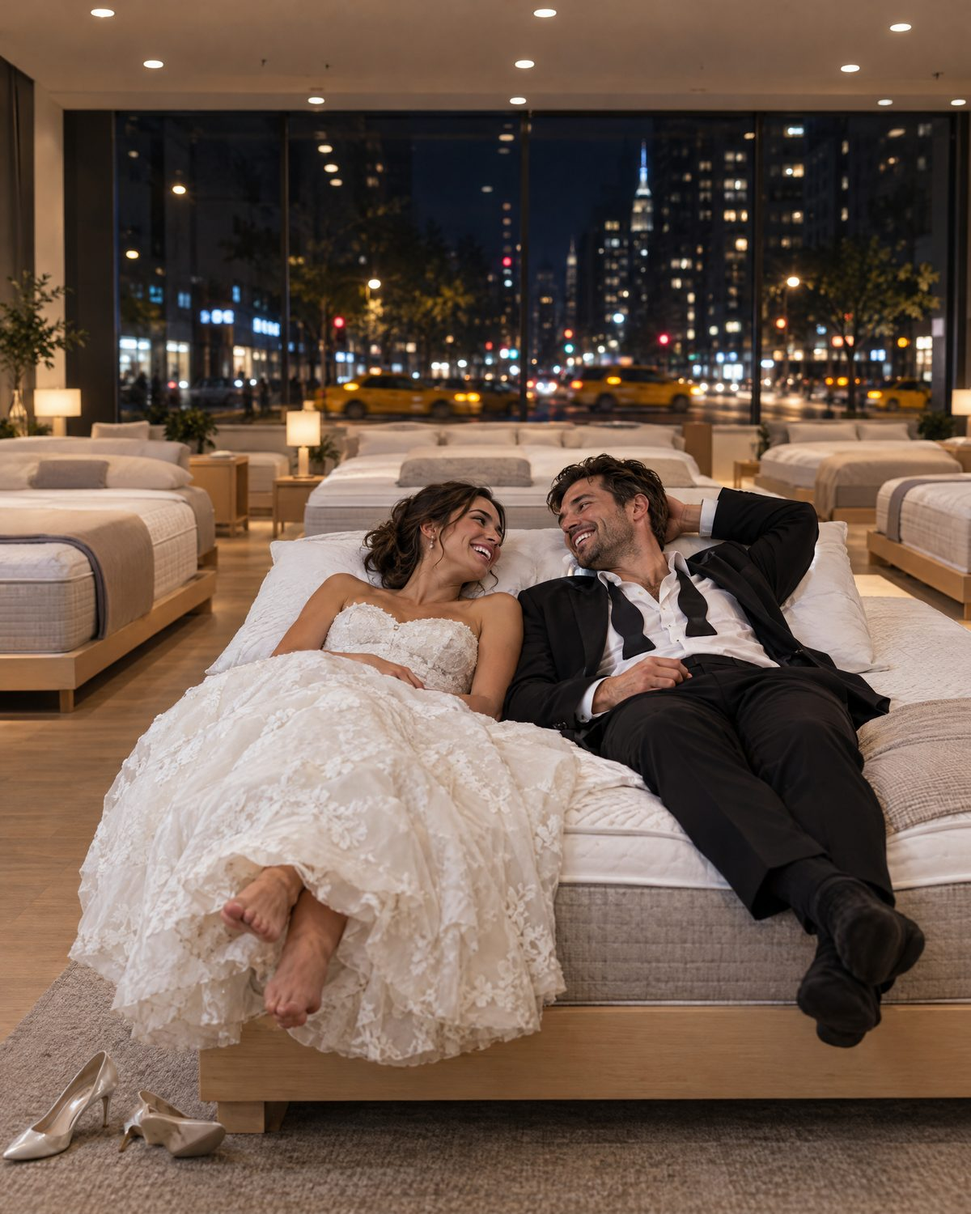
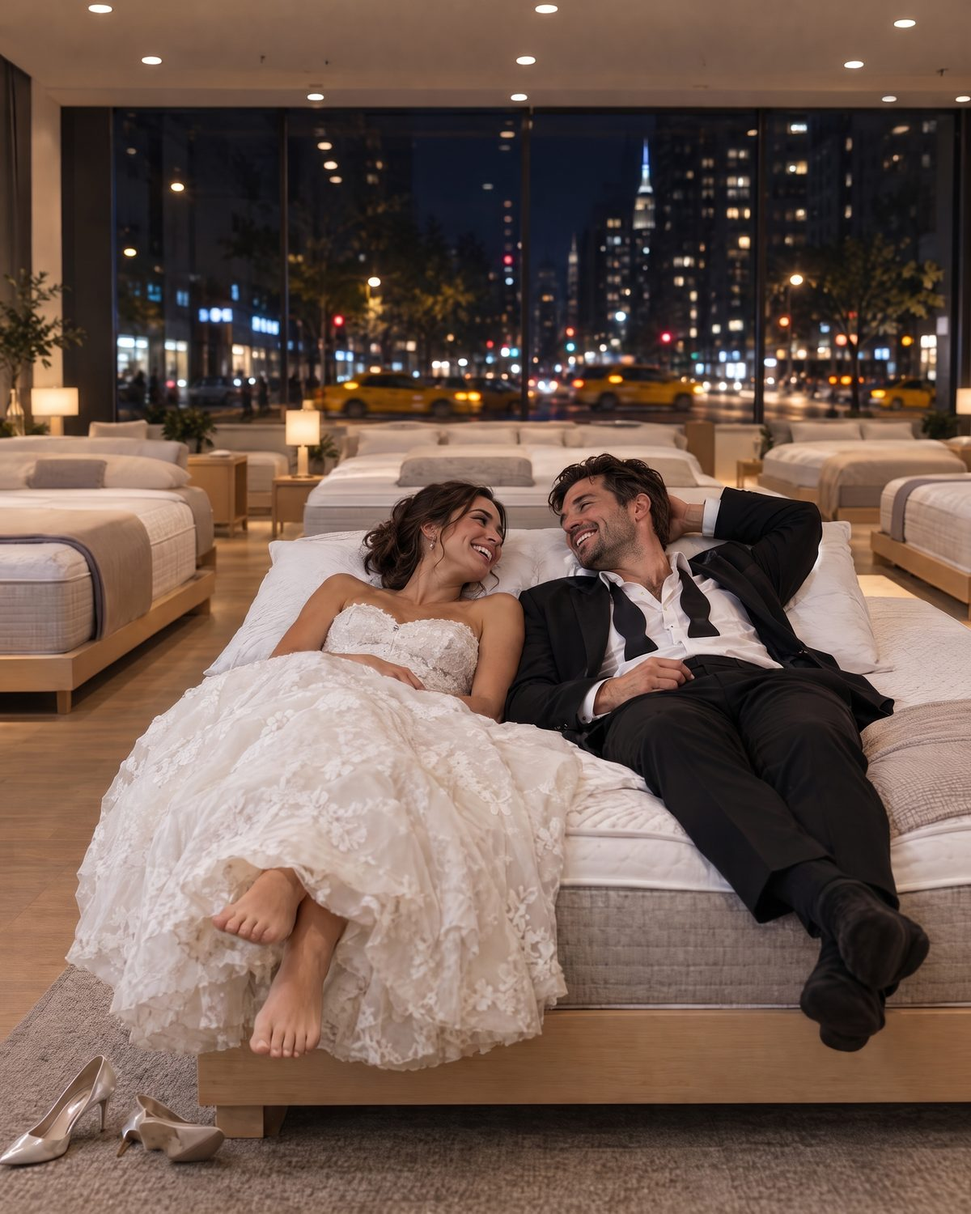
Update: sleepare-review-a-66nk (by equipo via noetic-proposals-mcp)

diff --git a/sleepare-review-a-66nk/index.html b/sleepare-review-a-66nk/index.html
@@ -187,7 +187,7 @@ body{overflow-x:clip}
 </style>
 </head>
 <body>
-<div data-dc-tpl="3" data-theme="editorial-light" style="width: 100%; background: rgb(250, 250, 247); color: rgb(10, 10, 14); font-family: var(--font-editorial-sans); font-size: 17px; line-height: 1.6;"><header data-dc-tpl="4" class="dark" style="position: sticky; top: 0px; z-index: 20; background: rgba(10, 10, 14, 0.82); backdrop-filter: blur(12px); border-bottom: 1px solid rgba(255, 255, 255, 0.12);"><div data-dc-tpl="5" style="max-width: 1240px; margin: 0px auto; padding: 14px 32px; box-sizing: border-box; display: flex; flex-wrap: wrap; align-items: center; justify-content: space-between; gap: 12px 24px;"><div class="sc-host-x" data-dc-tpl="6" style="display: contents;"><span style="display: inline-flex; align-items: center; gap: 14px;"><img src="assets/noetic-lockup-white.svg" alt="Noetic" style="height: 24px; width: 89.0071px; display: block;"><span style="width: 1px; height: 20.64px; background: rgba(255, 255, 255, 0.12);"></span><span style="display: inline-flex; align-items: center; padding: 4px 10px; border-radius: 4px; box-shadow: rgba(255, 255, 255, 0.12) 0px 0px 0px 1px inset; font-family: var(--editorial-font-mono); font-size: 12px; letter-spacing: 0.1em; color: var(--editorial-ink-faint);">SLEEPARE</span></span></div><nav data-dc-tpl="7" aria-label="Routes" style="display: flex; flex-wrap: wrap; gap: 6px 22px; font-family: var(--font-editorial-mono); font-size: 12px; letter-spacing: 0.12em; text-transform: uppercase; color: rgb(168, 168, 181);"><a data-dc-tpl="8" href="#route-01">01 Business hours</a><a data-dc-tpl="9" href="#route-012">01.2 SleePare Time</a><a data-dc-tpl="10" href="#route-02">02 Never sleeps</a><a data-dc-tpl="11" href="#route-03">03 Sleepy Tom</a><a data-dc-tpl="12" href="#route-04">04 3 a.m.</a><a data-dc-tpl="13" href="#compare">At a glance</a></nav></div></header><section data-dc-tpl="14" class="dark" data-theme="editorial-dark" style="position: relative; overflow: hidden; background: rgb(10, 10, 14); color: rgb(250, 250, 247);"><div data-dc-tpl="15" aria-hidden="true" style="position: absolute; width: 620px; height: 620px; left: -180px; bottom: -260px; border-radius: 50%; background: rgb(0, 212, 180); opacity: 0.32; filter: blur(96px);"></div><div data-dc-tpl="16" aria-hidden="true" style="position: absolute; width: 720px; height: 720px; right: -220px; top: -280px; border-radius: 50%; background: rgb(108, 92, 231); opacity: 0.55; filter: blur(96px);"></div><div data-dc-tpl="17" style="position: relative; max-width: 1240px; margin: 0px auto; padding: clamp(80px, 11vw, 150px) 32px clamp(64px, 8vw, 110px); box-sizing: border-box; display: flex; flex-direction: column; gap: 40px;"><div data-dc-tpl="18"><div class="sc-host-x" data-dc-tpl="19" style="display: contents;"><span style="display: inline-flex; align-items: center; border-radius: 999px; box-shadow: rgb(0, 212, 180) 0px 0px 0px 1.5px inset; padding: 10px 22px; font-family: Inter, sans-serif; font-weight: 500; font-size: 12px; letter-spacing: 0.16em; text-transform: uppercase; color: rgb(0, 212, 180); white-space: nowrap;">SleePare 24/7 · Campaign routes</span></div></div><h1 data-dc-tpl="20" style="margin: 0px; max-width: 1080px; font-family: var(--font-editorial-display); font-weight: 400; font-size: clamp(48px, 8.4vw, 124px); line-height: 0.98; letter-spacing: -0.03em; color: rgb(255, 255, 255);">SleePare is now open 24h in NYC.</h1><p data-dc-tpl="21" style="margin: 0px; max-width: 720px; font-size: clamp(19px, 1.9vw, 24px); line-height: 1.5; color: rgb(230, 230, 236);">Five creative routes built on one simple fact: when New York finally gives you your time back, there’s a mattress store that’s still open.</p><div data-dc-tpl="22" style="display: grid; grid-template-columns: repeat(auto-fit, minmax(200px, 1fr)); gap: 24px; padding-top: 32px; border-top: 1px solid rgba(255, 255, 255, 0.12);"><div data-dc-tpl="23" style="display: flex; flex-direction: column; gap: 6px;"><span data-dc-tpl="24" style="font-family: var(--font-editorial-mono); font-size: 11px; letter-spacing: 0.14em; text-transform: uppercase; color: rgb(168, 168, 181);">Client</span><span data-dc-tpl="25" style="font-weight: 600; font-size: 18px;">SleePare</span></div><div data-dc-tpl="26" style="display: flex; flex-direction: column; gap: 6px;"><span data-dc-tpl="27" style="font-family: var(--font-editorial-mono); font-size: 11px; letter-spacing: 0.14em; text-transform: uppercase; color: rgb(168, 168, 181);">Store</span><span data-dc-tpl="28" style="font-weight: 600; font-size: 18px;">218 W 30th St, New York</span></div><div data-dc-tpl="29" style="display: flex; flex-direction: column; gap: 6px;"><span data-dc-tpl="30" style="font-family: var(--font-editorial-mono); font-size: 11px; letter-spacing: 0.14em; text-transform: uppercase; color: rgb(168, 168, 181);">News</span><span data-dc-tpl="31" style="font-weight: 600; font-size: 18px;">Open 24h on weekends</span></div><div data-dc-tpl="32" style="display: flex; flex-direction: column; gap: 6px;"><span data-dc-tpl="33" style="font-family: var(--font-editorial-mono); font-size: 11px; letter-spacing: 0.14em; text-transform: uppercase; color: rgb(168, 168, 181);">Routes</span><span data-dc-tpl="34" style="font-weight: 600; font-size: 18px;">Five creative paths</span></div></div></div></section><section data-dc-tpl="35" style="background: rgb(250, 250, 247);"><div data-dc-tpl="36" style="max-width: 1240px; margin: 0px auto; padding: clamp(64px, 8vw, 110px) 32px; box-sizing: border-box; display: flex; flex-direction: column; gap: 32px;"><div data-dc-tpl="37"><div class="sc-host-x" data-dc-tpl="38" style="display: contents;"><span style="display: inline-flex; align-items: center; border-radius: 999px; box-shadow: inset 0 0 0 1.5px var(--editorial-purple); padding: 10px 22px; font-family: Inter, sans-serif; font-weight: 500; font-size: 12px; letter-spacing: 0.16em; text-transform: uppercase; color: var(--editorial-purple); white-space: nowrap;">The routes</span></div></div><h2 data-dc-tpl="39" style="margin: 0px; max-width: 900px; font-family: var(--font-editorial-display); font-weight: 400; font-size: clamp(32px, 4vw, 52px); line-height: 1.05; letter-spacing: -0.02em;">One store that never closes on weekends. Five ways to make New York care.</h2><div data-dc-tpl="40" style="display: flex; flex-direction: column; border-top: 1px solid rgba(10, 10, 14, 0.16);"><a data-dc-tpl="41" href="#route-01" style="display: grid; grid-template-columns: 90px minmax(0px, 1fr) minmax(0px, 1fr); gap: 8px 24px; align-items: baseline; padding: 24px 0px; border-bottom: 1px solid rgba(10, 10, 14, 0.16);"><span data-dc-tpl="42" style="font-family: var(--font-editorial-mono); font-size: 13px; letter-spacing: 0.1em; color: rgb(108, 92, 231);">01</span><span data-dc-tpl="43" style="font-family: var(--font-editorial-display); font-size: clamp(20px, 2.2vw, 28px); line-height: 1.15; letter-spacing: -0.02em;">Your free time is our business hours.</span><span data-dc-tpl="44" style="color: rgb(107, 107, 123); font-size: 15px;">Normalize absurdly specific mattress-shopping hours.</span></a><a data-dc-tpl="45" href="#route-012" style="display: grid; grid-template-columns: 90px minmax(0px, 1fr) minmax(0px, 1fr); gap: 8px 24px; align-items: baseline; padding: 24px 0px; border-bottom: 1px solid rgba(10, 10, 14, 0.16);"><span data-dc-tpl="46" style="font-family: var(--font-editorial-mono); font-size: 13px; letter-spacing: 0.1em; color: rgb(108, 92, 231);">01.2</span><span data-dc-tpl="47" style="font-family: var(--font-editorial-display); font-size: clamp(20px, 2.2vw, 28px); line-height: 1.15; letter-spacing: -0.02em;">At SleePare, any hour is mattress hour.</span><span data-dc-tpl="48" style="font-size: 15px; color: rgb(107, 107, 123);">Welcome to SleePare Time, where the clock stops deciding.</span></a><a data-dc-tpl="49" href="#route-02" style="display: grid; grid-template-columns: 90px minmax(0px, 1fr) minmax(0px, 1fr); gap: 8px 24px; align-items: baseline; padding: 24px 0px; border-bottom: 1px solid rgba(10, 10, 14, 0.16);"><span data-dc-tpl="50" style="font-family: var(--font-editorial-mono); font-size: 13px; letter-spacing: 0.1em; color: rgb(108, 92, 231);">02</span><span data-dc-tpl="51" style="font-family: var(--font-editorial-display); font-size: clamp(20px, 2.2vw, 28px); line-height: 1.15; letter-spacing: -0.02em;">The city never sleeps. You should.</span><span data-dc-tpl="52" style="font-size: 15px; color: rgb(107, 107, 123);">The one brand telling New Yorkers to stop.</span></a><a data-dc-tpl="53" href="#route-03" style="display: grid; grid-template-columns: 90px minmax(0px, 1fr) minmax(0px, 1fr); gap: 8px 24px; align-items: baseline; padding: 24px 0px; border-bottom: 1px solid rgba(10, 10, 14, 0.16);"><span data-dc-tpl="54" style="font-family: var(--font-editorial-mono); font-size: 13px; letter-spacing: 0.1em; color: rgb(108, 92, 231);">03</span><span data-dc-tpl="55" style="font-family: var(--font-editorial-display); font-size: clamp(20px, 2.2vw, 28px); line-height: 1.15; letter-spacing: -0.02em;">Meet Sleepy Tom. He can sleep anywhere.</span><span data-dc-tpl="56" style="font-size: 15px; color: rgb(107, 107, 123);">A character series about the most exhausted man in NY.</span></a><a data-dc-tpl="57" href="#route-04" style="display: grid; grid-template-columns: 90px minmax(0px, 1fr) minmax(0px, 1fr); gap: 8px 24px; align-items: baseline; padding: 24px 0px; border-bottom: 1px solid rgba(10, 10, 14, 0.16);"><span data-dc-tpl="58" style="font-family: var(--font-editorial-mono); font-size: 13px; letter-spacing: 0.1em; color: rgb(108, 92, 231);">04</span><span data-dc-tpl="59" style="font-family: var(--font-editorial-display); font-size: clamp(20px, 2.2vw, 28px); line-height: 1.15; letter-spacing: -0.02em;">Not every 3 a.m. decision is a bad one.</span><span data-dc-tpl="60" style="font-size: 15px; color: rgb(107, 107, 123);">Flip the reputation of the late-night hour.</span></a></div></div></section><section data-dc-tpl="61" id="route-01" style="background: rgb(242, 240, 234);"><div data-dc-tpl="62" style="max-width: 1240px; margin: 0px auto; padding: clamp(80px, 10vw, 140px) 32px; box-sizing: border-box; display: flex; flex-direction: column; gap: 56px;"><div data-dc-tpl="63" style="display: flex; flex-direction: column; gap: 28px;"><div data-dc-tpl="64"><div class="sc-host-x" data-dc-tpl="65" style="display: contents;"><span style="display: inline-flex; align-items: center; border-radius: 999px; box-shadow: inset 0 0 0 1.5px var(--editorial-purple); padding: 10px 22px; font-family: Inter, sans-serif; font-weight: 500; font-size: 12px; letter-spacing: 0.16em; text-transform: uppercase; color: var(--editorial-purple); white-space: nowrap;">Route 01 · Business hours</span></div></div><h2 data-dc-tpl="66" style="margin: 0px; max-width: 1000px; font-family: var(--font-editorial-display); font-weight: 400; font-size: clamp(36px, 5vw, 68px); line-height: 1.02; letter-spacing: -0.02em;">Most stores are open when you’re busy, and closed the moment you’re finally free.</h2></div><div data-dc-tpl="67" style="display: grid; grid-template-columns: repeat(auto-fit, minmax(300px, 1fr)); gap: 32px 64px; max-width: 1100px;"><div data-dc-tpl="68" style="display: flex; flex-direction: column; gap: 18px; color: rgb(26, 26, 31);"><p data-dc-tpl="69" style="margin: 0px;">In New York, weekdays belong to work. Weekends belong to everything else: brunch, the kids’ games, the gym, the show, the dinner that turns into drinks.</p><p data-dc-tpl="70" style="margin: 0px;">By the time your day finally slows down, every store in the city has already closed.</p><p data-dc-tpl="71" style="margin: 0px;">Now think about something as important as choosing a mattress. You research it. You compare it. And then you need the time to actually lie on it.</p></div><div data-dc-tpl="72" style="display: flex; flex-direction: column; gap: 18px; color: rgb(26, 26, 31);"><p data-dc-tpl="73" style="margin: 0px;">So it keeps getting pushed to “next weekend.”</p><p data-dc-tpl="74" style="margin: 0px;">What if the hour that feels too late is actually the perfect one? What if the end of your plans could be the start of a better night’s sleep?</p><p data-dc-tpl="75" style="margin: 0px; font-weight: 700; font-size: 21px; line-height: 1.4; color: rgb(10, 10, 14);">You fill your weekend. We’ll stay open for it.</p></div></div><div data-dc-tpl="76" style="display: flex; flex-direction: column; gap: 20px;"><span data-dc-tpl="77" style="font-family: var(--font-editorial-mono); font-size: 12px; letter-spacing: 0.14em; text-transform: uppercase; color: rgb(107, 107, 123);">The concept · three phrasings</span><div data-dc-tpl="78" style="display: grid; grid-template-columns: repeat(auto-fit, minmax(260px, 1fr)); gap: 20px;"><div data-dc-tpl="79" style="background: rgb(255, 255, 255); border-radius: 16px; padding: 32px; display: flex; flex-direction: column; gap: 20px; border: 1px solid rgba(10, 10, 14, 0.08);"><span data-dc-tpl="80" style="font-family: var(--font-editorial-mono); font-size: 13px; color: rgb(108, 92, 231);">01</span><span data-dc-tpl="81" style="font-family: var(--font-editorial-display); font-size: clamp(24px, 2.4vw, 32px); line-height: 1.1; letter-spacing: -0.02em;">There’s no wrong time to find the right mattress.</span></div><div data-dc-tpl="82" style="background: rgb(255, 255, 255); border-radius: 16px; padding: 32px; display: flex; flex-direction: column; gap: 20px; border: 1px solid rgba(10, 10, 14, 0.08);"><span data-dc-tpl="83" style="font-family: var(--font-editorial-mono); font-size: 13px; color: rgb(108, 92, 231);">02</span><span data-dc-tpl="84" style="font-family: var(--font-editorial-display); font-size: clamp(24px, 2.4vw, 32px); line-height: 1.1; letter-spacing: -0.02em;">Unusual hours. Business as usual.</span></div><div data-dc-tpl="85" style="background: rgb(108, 92, 231); color: rgb(255, 255, 255); border-radius: 16px; padding: 32px; display: flex; flex-direction: column; gap: 20px;"><span data-dc-tpl="86" style="font-family: var(--font-editorial-mono); font-size: 13px; color: rgb(255, 255, 255);">03</span><span data-dc-tpl="87" style="font-family: var(--font-editorial-display); font-size: clamp(24px, 2.4vw, 32px); line-height: 1.1; letter-spacing: -0.02em;">Your free time is our business hours.</span></div></div><p data-dc-tpl="88" style="margin: 0px; font-size: 16px; color: rgb(107, 107, 123);">Sign-off: Try mattresses whenever life lets you. SleePare. Now open 24h on weekends.</p></div><div data-dc-tpl="89" style="display: flex; flex-direction: column; gap: 24px; padding-top: 48px; border-top: 1px solid rgba(10, 10, 14, 0.16);"><div data-dc-tpl="90" style="display: flex; flex-direction: column; gap: 10px; max-width: 780px;"><span data-dc-tpl="91" style="font-family: var(--font-editorial-mono); font-size: 12px; letter-spacing: 0.14em; text-transform: uppercase; color: rgb(107, 107, 123);">The creative mechanism</span><p data-dc-tpl="92" style="margin: 0px; font-size: clamp(20px, 2vw, 26px); line-height: 1.4; font-weight: 600;">We normalize absurdly specific mattress-shopping hours.</p></div><div class="ad-grid g4"><div class="ad-cell "><figure class="sp-ad " role="img" aria-label="Saturday 11:58 p.m.. Right after the wedding."><img class="sp-bg" src="assets/ads/r01_wedding.jpg" alt="" loading="lazy" style="object-position:50% 78%"><div class="sp-scrim tb"></div>
+<div data-dc-tpl="3" data-theme="editorial-light" style="width: 100%; background: rgb(250, 250, 247); color: rgb(10, 10, 14); font-family: var(--font-editorial-sans); font-size: 17px; line-height: 1.6;"><header data-dc-tpl="4" class="dark" style="position: sticky; top: 0px; z-index: 20; background: rgba(10, 10, 14, 0.82); backdrop-filter: blur(12px); border-bottom: 1px solid rgba(255, 255, 255, 0.12);"><div data-dc-tpl="5" style="max-width: 1240px; margin: 0px auto; padding: 14px 32px; box-sizing: border-box; display: flex; flex-wrap: wrap; align-items: center; justify-content: space-between; gap: 12px 24px;"><div class="sc-host-x" data-dc-tpl="6" style="display: contents;"><span style="display: inline-flex; align-items: center; gap: 14px;"><img src="assets/noetic-lockup-white.svg" alt="Noetic" style="height: 24px; width: 89.0071px; display: block;"><span style="width: 1px; height: 20.64px; background: rgba(255, 255, 255, 0.12);"></span><span style="display: inline-flex; align-items: center; padding: 4px 10px; border-radius: 4px; box-shadow: rgba(255, 255, 255, 0.12) 0px 0px 0px 1px inset; font-family: var(--editorial-font-mono); font-size: 12px; letter-spacing: 0.1em; color: var(--editorial-ink-faint);">SLEEPARE</span></span></div><nav data-dc-tpl="7" aria-label="Routes" style="display: flex; flex-wrap: wrap; gap: 6px 22px; font-family: var(--font-editorial-mono); font-size: 12px; letter-spacing: 0.12em; text-transform: uppercase; color: rgb(168, 168, 181);"><a data-dc-tpl="8" href="#route-01">01 Business hours</a><a data-dc-tpl="9" href="#route-012">01.2 SleePare Time</a><a data-dc-tpl="10" href="#route-02">02 Never sleeps</a><a data-dc-tpl="11" href="#route-03">03 Sleepy Tom</a><a data-dc-tpl="12" href="#route-04">04 3 a.m.</a><a data-dc-tpl="13" href="#compare">At a glance</a></nav></div></header><section data-dc-tpl="14" class="dark" data-theme="editorial-dark" style="position: relative; overflow: hidden; background: rgb(10, 10, 14); color: rgb(250, 250, 247);"><div data-dc-tpl="15" aria-hidden="true" style="position: absolute; width: 620px; height: 620px; left: -180px; bottom: -260px; border-radius: 50%; background: rgb(0, 212, 180); opacity: 0.32; filter: blur(96px);"></div><div data-dc-tpl="16" aria-hidden="true" style="position: absolute; width: 720px; height: 720px; right: -220px; top: -280px; border-radius: 50%; background: rgb(108, 92, 231); opacity: 0.55; filter: blur(96px);"></div><div data-dc-tpl="17" style="position: relative; max-width: 1240px; margin: 0px auto; padding: clamp(80px, 11vw, 150px) 32px clamp(64px, 8vw, 110px); box-sizing: border-box; display: flex; flex-direction: column; gap: 40px;"><div data-dc-tpl="18"><div class="sc-host-x" data-dc-tpl="19" style="display: contents;"><span style="display: inline-flex; align-items: center; border-radius: 999px; box-shadow: rgb(0, 212, 180) 0px 0px 0px 1.5px inset; padding: 10px 22px; font-family: Inter, sans-serif; font-weight: 500; font-size: 12px; letter-spacing: 0.16em; text-transform: uppercase; color: rgb(0, 212, 180); white-space: nowrap;">SleePare 24/7 · Campaign routes</span></div></div><h1 data-dc-tpl="20" style="margin: 0px; max-width: 1080px; font-family: var(--font-editorial-display); font-weight: 400; font-size: clamp(48px, 8.4vw, 124px); line-height: 0.98; letter-spacing: -0.03em; color: rgb(255, 255, 255);">SleePare is now open 24h in NYC.</h1><p data-dc-tpl="21" style="margin: 0px; max-width: 720px; font-size: clamp(19px, 1.9vw, 24px); line-height: 1.5; color: rgb(230, 230, 236);">Five creative routes built on one simple fact: when New York finally gives you your time back, there’s a mattress store that’s still open.</p><div data-dc-tpl="22" style="display: grid; grid-template-columns: repeat(auto-fit, minmax(200px, 1fr)); gap: 24px; padding-top: 32px; border-top: 1px solid rgba(255, 255, 255, 0.12);"><div data-dc-tpl="23" style="display: flex; flex-direction: column; gap: 6px;"><span data-dc-tpl="24" style="font-family: var(--font-editorial-mono); font-size: 11px; letter-spacing: 0.14em; text-transform: uppercase; color: rgb(168, 168, 181);">Client</span><span data-dc-tpl="25" style="font-weight: 600; font-size: 18px;">SleePare</span></div><div data-dc-tpl="26" style="display: flex; flex-direction: column; gap: 6px;"><span data-dc-tpl="27" style="font-family: var(--font-editorial-mono); font-size: 11px; letter-spacing: 0.14em; text-transform: uppercase; color: rgb(168, 168, 181);">Store</span><span data-dc-tpl="28" style="font-weight: 600; font-size: 18px;">218 W 30th St, New York</span></div><div data-dc-tpl="29" style="display: flex; flex-direction: column; gap: 6px;"><span data-dc-tpl="30" style="font-family: var(--font-editorial-mono); font-size: 11px; letter-spacing: 0.14em; text-transform: uppercase; color: rgb(168, 168, 181);">News</span><span data-dc-tpl="31" style="font-weight: 600; font-size: 18px;">Open 24h on weekends</span></div><div data-dc-tpl="32" style="display: flex; flex-direction: column; gap: 6px;"><span data-dc-tpl="33" style="font-family: var(--font-editorial-mono); font-size: 11px; letter-spacing: 0.14em; text-transform: uppercase; color: rgb(168, 168, 181);">Routes</span><span data-dc-tpl="34" style="font-weight: 600; font-size: 18px;">Five creative paths</span></div></div></div></section><section data-dc-tpl="35" style="background: rgb(250, 250, 247);"><div data-dc-tpl="36" style="max-width: 1240px; margin: 0px auto; padding: clamp(64px, 8vw, 110px) 32px; box-sizing: border-box; display: flex; flex-direction: column; gap: 32px;"><div data-dc-tpl="37"><div class="sc-host-x" data-dc-tpl="38" style="display: contents;"><span style="display: inline-flex; align-items: center; border-radius: 999px; box-shadow: inset 0 0 0 1.5px var(--editorial-purple); padding: 10px 22px; font-family: Inter, sans-serif; font-weight: 500; font-size: 12px; letter-spacing: 0.16em; text-transform: uppercase; color: var(--editorial-purple); white-space: nowrap;">The routes</span></div></div><h2 data-dc-tpl="39" style="margin: 0px; max-width: 900px; font-family: var(--font-editorial-display); font-weight: 400; font-size: clamp(32px, 4vw, 52px); line-height: 1.05; letter-spacing: -0.02em;">One store that never closes on weekends. Five ways to make New York care.</h2><div data-dc-tpl="40" style="display: flex; flex-direction: column; border-top: 1px solid rgba(10, 10, 14, 0.16);"><a data-dc-tpl="41" href="#route-01" style="display: grid; grid-template-columns: 90px minmax(0px, 1fr) minmax(0px, 1fr); gap: 8px 24px; align-items: baseline; padding: 24px 0px; border-bottom: 1px solid rgba(10, 10, 14, 0.16);"><span data-dc-tpl="42" style="font-family: var(--font-editorial-mono); font-size: 13px; letter-spacing: 0.1em; color: rgb(108, 92, 231);">01</span><span data-dc-tpl="43" style="font-family: var(--font-editorial-display); font-size: clamp(20px, 2.2vw, 28px); line-height: 1.15; letter-spacing: -0.02em;">Your free time is our business hours.</span><span data-dc-tpl="44" style="color: rgb(107, 107, 123); font-size: 15px;">Normalize absurdly specific mattress-shopping hours.</span></a><a data-dc-tpl="45" href="#route-012" style="display: grid; grid-template-columns: 90px minmax(0px, 1fr) minmax(0px, 1fr); gap: 8px 24px; align-items: baseline; padding: 24px 0px; border-bottom: 1px solid rgba(10, 10, 14, 0.16);"><span data-dc-tpl="46" style="font-family: var(--font-editorial-mono); font-size: 13px; letter-spacing: 0.1em; color: rgb(108, 92, 231);">01.2</span><span data-dc-tpl="47" style="font-family: var(--font-editorial-display); font-size: clamp(20px, 2.2vw, 28px); line-height: 1.15; letter-spacing: -0.02em;">At SleePare, any hour is mattress hour.</span><span data-dc-tpl="48" style="font-size: 15px; color: rgb(107, 107, 123);">Welcome to SleePare Time, where the clock stops deciding.</span></a><a data-dc-tpl="49" href="#route-02" style="display: grid; grid-template-columns: 90px minmax(0px, 1fr) minmax(0px, 1fr); gap: 8px 24px; align-items: baseline; padding: 24px 0px; border-bottom: 1px solid rgba(10, 10, 14, 0.16);"><span data-dc-tpl="50" style="font-family: var(--font-editorial-mono); font-size: 13px; letter-spacing: 0.1em; color: rgb(108, 92, 231);">02</span><span data-dc-tpl="51" style="font-family: var(--font-editorial-display); font-size: clamp(20px, 2.2vw, 28px); line-height: 1.15; letter-spacing: -0.02em;">The city never sleeps. You should.</span><span data-dc-tpl="52" style="font-size: 15px; color: rgb(107, 107, 123);">The one brand telling New Yorkers to stop.</span></a><a data-dc-tpl="53" href="#route-03" style="display: grid; grid-template-columns: 90px minmax(0px, 1fr) minmax(0px, 1fr); gap: 8px 24px; align-items: baseline; padding: 24px 0px; border-bottom: 1px solid rgba(10, 10, 14, 0.16);"><span data-dc-tpl="54" style="font-family: var(--font-editorial-mono); font-size: 13px; letter-spacing: 0.1em; color: rgb(108, 92, 231);">03</span><span data-dc-tpl="55" style="font-family: var(--font-editorial-display); font-size: clamp(20px, 2.2vw, 28px); line-height: 1.15; letter-spacing: -0.02em;">Meet Sleepy Tom. He can sleep anywhere.</span><span data-dc-tpl="56" style="font-size: 15px; color: rgb(107, 107, 123);">A character series about the most exhausted man in NY.</span></a><a data-dc-tpl="57" href="#route-04" style="display: grid; grid-template-columns: 90px minmax(0px, 1fr) minmax(0px, 1fr); gap: 8px 24px; align-items: baseline; padding: 24px 0px; border-bottom: 1px solid rgba(10, 10, 14, 0.16);"><span data-dc-tpl="58" style="font-family: var(--font-editorial-mono); font-size: 13px; letter-spacing: 0.1em; color: rgb(108, 92, 231);">04</span><span data-dc-tpl="59" style="font-family: var(--font-editorial-display); font-size: clamp(20px, 2.2vw, 28px); line-height: 1.15; letter-spacing: -0.02em;">Not every 3 a.m. decision is a bad one.</span><span data-dc-tpl="60" style="font-size: 15px; color: rgb(107, 107, 123);">Flip the reputation of the late-night hour.</span></a></div></div></section><section data-dc-tpl="61" id="route-01" style="background: rgb(242, 240, 234);"><div data-dc-tpl="62" style="max-width: 1240px; margin: 0px auto; padding: clamp(80px, 10vw, 140px) 32px; box-sizing: border-box; display: flex; flex-direction: column; gap: 56px;"><div data-dc-tpl="63" style="display: flex; flex-direction: column; gap: 28px;"><div data-dc-tpl="64"><div class="sc-host-x" data-dc-tpl="65" style="display: contents;"><span style="display: inline-flex; align-items: center; border-radius: 999px; box-shadow: inset 0 0 0 1.5px var(--editorial-purple); padding: 10px 22px; font-family: Inter, sans-serif; font-weight: 500; font-size: 12px; letter-spacing: 0.16em; text-transform: uppercase; color: var(--editorial-purple); white-space: nowrap;">Route 01 · Business hours</span></div></div><h2 data-dc-tpl="66" style="margin: 0px; max-width: 1000px; font-family: var(--font-editorial-display); font-weight: 400; font-size: clamp(36px, 5vw, 68px); line-height: 1.02; letter-spacing: -0.02em;">Most stores are open when you’re busy, and closed the moment you’re finally free.</h2></div><div data-dc-tpl="67" style="display: grid; grid-template-columns: repeat(auto-fit, minmax(300px, 1fr)); gap: 32px 64px; max-width: 1100px;"><div data-dc-tpl="68" style="display: flex; flex-direction: column; gap: 18px; color: rgb(26, 26, 31);"><p data-dc-tpl="69" style="margin: 0px;">In New York, weekdays belong to work. Weekends belong to everything else: brunch, the kids’ games, the gym, the show, the dinner that turns into drinks.</p><p data-dc-tpl="70" style="margin: 0px;">By the time your day finally slows down, every store in the city has already closed.</p><p data-dc-tpl="71" style="margin: 0px;">Now think about something as important as choosing a mattress. You research it. You compare it. And then you need the time to actually lie on it.</p></div><div data-dc-tpl="72" style="display: flex; flex-direction: column; gap: 18px; color: rgb(26, 26, 31);"><p data-dc-tpl="73" style="margin: 0px;">So it keeps getting pushed to “next weekend.”</p><p data-dc-tpl="74" style="margin: 0px;">What if the hour that feels too late is actually the perfect one? What if the end of your plans could be the start of a better night’s sleep?</p><p data-dc-tpl="75" style="margin: 0px; font-weight: 700; font-size: 21px; line-height: 1.4; color: rgb(10, 10, 14);">You fill your weekend. We’ll stay open for it.</p></div></div><div data-dc-tpl="76" style="display: flex; flex-direction: column; gap: 20px;"><span data-dc-tpl="77" style="font-family: var(--font-editorial-mono); font-size: 12px; letter-spacing: 0.14em; text-transform: uppercase; color: rgb(107, 107, 123);">The concept · three phrasings</span><div data-dc-tpl="78" style="display: grid; grid-template-columns: repeat(auto-fit, minmax(260px, 1fr)); gap: 20px;"><div data-dc-tpl="79" style="background: rgb(255, 255, 255); border-radius: 16px; padding: 32px; display: flex; flex-direction: column; gap: 20px; border: 1px solid rgba(10, 10, 14, 0.08);"><span data-dc-tpl="80" style="font-family: var(--font-editorial-mono); font-size: 13px; color: rgb(108, 92, 231);">01</span><span data-dc-tpl="81" style="font-family: var(--font-editorial-display); font-size: clamp(24px, 2.4vw, 32px); line-height: 1.1; letter-spacing: -0.02em;">There’s no wrong time to find the right mattress.</span></div><div data-dc-tpl="82" style="background: rgb(255, 255, 255); border-radius: 16px; padding: 32px; display: flex; flex-direction: column; gap: 20px; border: 1px solid rgba(10, 10, 14, 0.08);"><span data-dc-tpl="83" style="font-family: var(--font-editorial-mono); font-size: 13px; color: rgb(108, 92, 231);">02</span><span data-dc-tpl="84" style="font-family: var(--font-editorial-display); font-size: clamp(24px, 2.4vw, 32px); line-height: 1.1; letter-spacing: -0.02em;">Unusual hours. Business as usual.</span></div><div data-dc-tpl="85" style="background: rgb(108, 92, 231); color: rgb(255, 255, 255); border-radius: 16px; padding: 32px; display: flex; flex-direction: column; gap: 20px;"><span data-dc-tpl="86" style="font-family: var(--font-editorial-mono); font-size: 13px; color: rgb(255, 255, 255);">03</span><span data-dc-tpl="87" style="font-family: var(--font-editorial-display); font-size: clamp(24px, 2.4vw, 32px); line-height: 1.1; letter-spacing: -0.02em;">Your free time is our business hours.</span></div></div><p data-dc-tpl="88" style="margin: 0px; font-size: 16px; color: rgb(107, 107, 123);">Sign-off: Try mattresses whenever life lets you. SleePare. Now open 24h on weekends.</p></div><div data-dc-tpl="89" style="display: flex; flex-direction: column; gap: 24px; padding-top: 48px; border-top: 1px solid rgba(10, 10, 14, 0.16);"><div data-dc-tpl="90" style="display: flex; flex-direction: column; gap: 10px; max-width: 780px;"><span data-dc-tpl="91" style="font-family: var(--font-editorial-mono); font-size: 12px; letter-spacing: 0.14em; text-transform: uppercase; color: rgb(107, 107, 123);">The creative mechanism</span><p data-dc-tpl="92" style="margin: 0px; font-size: clamp(20px, 2vw, 26px); line-height: 1.4; font-weight: 600;">We normalize absurdly specific mattress-shopping hours.</p></div><div class="ad-grid g4"><div class="ad-cell "><figure class="sp-ad " role="img" aria-label="Saturday 11:58 p.m.. Right after the wedding."><img class="sp-bg" src="assets/ads/r01_wedding.jpg?v=2" alt="" loading="lazy" style="object-position:50% 78%"><div class="sp-scrim tb"></div>
 <div class="sp-in"><div class="sp-top"><span class="sp-logo white"></span>
 <div style="height:calc(var(--u)*40)"></div><p class="sp-k">Saturday</p><p class="sp-time white sp-shadow">11:58 p.m.</p><p class="sp-h s coral sp-shadow" style="margin-top:calc(var(--u)*20)">Right after the wedding.</p></div>
 <div class="sp-row"><p class="sp-sub white sp-shadow">Your free time is our business&nbsp;hours.</p><span class="sp-pill">Book a visit</span></div></div></figure><p class="ad-cap">Static · 4:5 · Saturday 11:58 p.m.</p></div><div class="ad-cell "><figure class="sp-ad " role="img" aria-label="Sunday 1:47 a.m.. Straight from the concert."><img class="sp-bg" src="assets/ads/r01_concert.jpg" alt="" loading="lazy" style="object-position:50% 70%"><div class="sp-scrim tb"></div>
